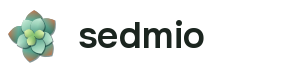
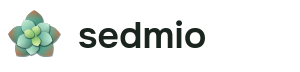
Установщик: подписи хода установки, гладкий текст в GRUB, знак основанием вниз
Подписи под полосой хода не менялись: Calamares с pybind11 не вызывал
pretty_status_message() у Python-модулей (там стоял TODO) — патч
python-status.patch, calamares 3.4.3-5. Счётчик пакетов не знал общего
числа: с VerbosePkgLists pacman пишет «Package (N)», а не «Packages (N)».

Меню GRUB: заголовок, подпись и подсказка — картинки из render.py вместо
шрифтов GRUB без сглаживания. Полужирные pf2 больше не нужны.

Знак повёрнут на два шага золотого угла: лист вверх, плоская сторона вниз.

Changed region(s): [[0.24, 0.3056, 0.69, 0.6667], [0.03, 0.25, 0.21, 0.8889], [0.57, 0.2778, 0.63, 0.3333]]

diff --git a/packages/sedmio-calamares/files/etc/calamares/branding/sedmio/components/Logo.qml b/packages/sedmio-calamares/files/etc/calamares/branding/sedmio/components/Logo.qml
@@ -54,7 +54,11 @@ Canvas {
         let index = 0
         for (const ring of rings) {
             for (let i = 0; i < ring[0]; ++i, ++index) {
-                const turn = index * 137.508 * Math.PI / 180
+                // Листья по золотому углу; весь знак повёрнут на два шага
+                // (index − 2): у пяти внешних листьев есть ось симметрии через
+                // третий лист и середину плоской стороны напротив — так лист
+                // смотрит вверх, а плоская сторона ложится вниз, как основание.
+                const turn = (index - 2) * 137.508 * Math.PI / 180
                 const len = ring[1] * s, wid = ring[2] * s
                 // свет в осях листа
                 const ux = lx * Math.cos(turn) + ly * Math.sin(turn)

diff --git a/tools/boot-theme/render.py b/tools/boot-theme/render.py
@@ -1,11 +1,18 @@
 """Картинки для темы меню загрузки (GRUB) образа Sedmio.
 
-    tools/installer-preview/.venv/Scripts/python tools/boot-theme/render.py
+    python -m venv tools/installer-preview/.venv
+    tools/installer-preview/.venv/bin/pip install -r tools/installer-preview/requirements.txt
+    tools/installer-preview/.venv/bin/python tools/boot-theme/render.py
 
 Рисует из тех же QML-компонентов, что и установщик (растение, знак,
 палитра), и кладёт PNG в iso/grub/themes/sedmio/ (меню UEFI) и заставку
 iso/syslinux/splash.png (меню BIOS). Шрифты (*.pf2) делает
 scripts/build-iso.sh через grub-mkfont: для этого нужен Linux.
+
+Неизменный текст меню (заголовок, подпись, подсказка по клавишам) — тоже
+картинки: шрифты GRUB (*.pf2) одноцветные, без сглаживания, и буквы
+выходят лесенкой. Шрифтом остаются только пункты меню и обратный отсчёт —
+их GRUB умеет рисовать только так.
 
 GRUB растягивает фон под экран, а картинки (растение, шапку) ставит как
 есть, по процентам от размера экрана. Поэтому фон — только бумага и
@@ -98,6 +105,7 @@ Window {
             font.family: Theme.fontFamily
             font.pixelSize: 38
             font.weight: Font.DemiBold
+            font.variableAxes: { "wght": 600 }   // Onest переменный, см. TEXTS
             color: Theme.ink
         }
     }
@@ -112,6 +120,41 @@ Window {
     width: 640; height: 480; visible: true
     color: Theme.ink
     Sedum { x: 640 - 230; y: 480 - 235; size: 240; stage: 6; still: true }
+}
+"""
+
+
+# Текст для GRUB: (файл, текст, размер в px, насыщенность, цвет, высота).
+# Размеры, цвета и высоты — как были у label в theme.txt. Насыщенность —
+# как у шрифтов, которые для них делал build-iso.sh: «Bold» там — SemiBold
+# (600). Onest переменный, и на Linux Qt не выбирает начертание по
+# font.weight — насыщенность задаётся осью wght напрямую.
+TEXTS = [
+    ("eyebrow.png", "ЗАГРУЗКА С ФЛЕШКИ", 16, 600, "Theme.terracotta", 24),
+    ("title.png", "Sedmio Linux", 56, 600, "Theme.ink", 76),
+    ("subtitle.png", "Выберите, как запустить систему", 22, 400, "Theme.inkSoft", 32),
+    ("hint.png", "↑ ↓  выбрать        Enter  запустить        E  изменить параметры загрузки",
+     16, 400, "Theme.inkMuted", 24),
+]
+
+# Строка текста от верхнего края картинки: базовая линия на высоте
+# ascent шрифта — там же, где её ставит label в GRUB, поэтому картинка
+# встаёт на место label с теми же left/top.
+TEXT = HEAD + """
+Window {
+    width: Math.ceil(label.implicitWidth) + 2; height: %(height)d; visible: true
+    color: "transparent"
+    Text {
+        id: label
+        x: 0; y: 0
+        text: "%(text)s"
+        textFormat: Text.PlainText
+        font.family: Theme.fontFamily
+        font.pixelSize: %(size)d
+        font.weight: %(weight)d
+        font.variableAxes: { "wght": %(weight)d }
+        color: %(color)s
+    }
 }
 """
 
@@ -181,6 +224,8 @@ def main():
     render(BACKGROUND, 600, "background.png")
     render(HEADER, 800, "header.png")
     render(PLANT, 4000, "plant.png")
+    for name, text, size, weight, color, height in TEXTS:
+        render(TEXT % dict(text=text, size=size, weight=weight, color=color, height=height), 800, name)
     box("select", GREEN, height=56, radius=28, pill=True)                          # выбранный пункт
     render(SPLASH, 4000, "splash.png", ROOT / "iso/syslinux")
     box("terminal_box", "#F8FAF5", height=64, radius=16, border="#D5DCCF")  # правка параметров (E)

diff --git a/packages/sedmio-calamares/files/usr/lib/calamares/modules/sedmiopacstrap/main.py b/packages/sedmio-calamares/files/usr/lib/calamares/modules/sedmiopacstrap/main.py
@@ -88,7 +88,9 @@ class Progress:
                 self.set("Настраиваем обновления Sedmio…", P_FINISH)
             return
 
-        m = re.match(r"Packages \((\d+)\)", line)
+        # «Packages (582) a b c…», а с VerbosePkgLists (он включён в
+        # pacman.conf live-образа) — заголовок таблицы «Package (582) …»
+        m = re.match(r"Packages? \((\d+)\)", line)
         if m:
             self.total = int(m.group(1))
             return
